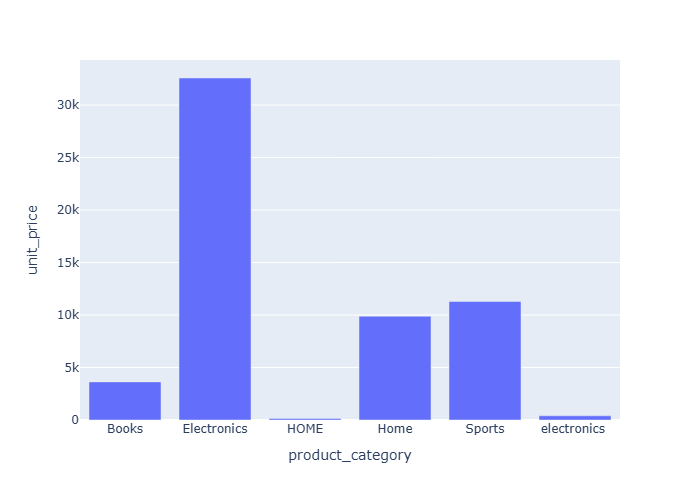
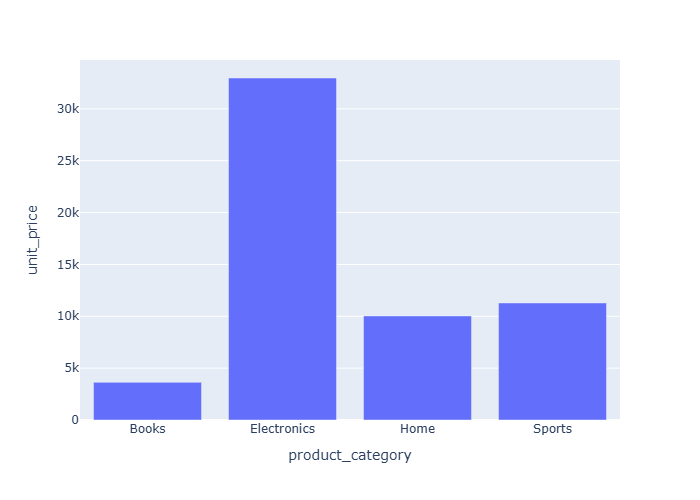
ordnade om i spike så datatvätten fungerar

diff --git a/spike.py b/spike.py
@@ -10,10 +10,8 @@ print("Python:", sys.version.split()[0])
 print("Pandas:", pd.__version__)
 print("Plotly:", plotly.__version__)
 
-orders = pd.read_csv("data/orders.csv")
-fig = sales_by_category(orders)
-
 orders = prepare_orders(pd.read_csv("data/orders.csv"))
+fig = sales_by_category(orders)
 
 fig.write_html("chart.html")
 fig.write_image("chart.png")
